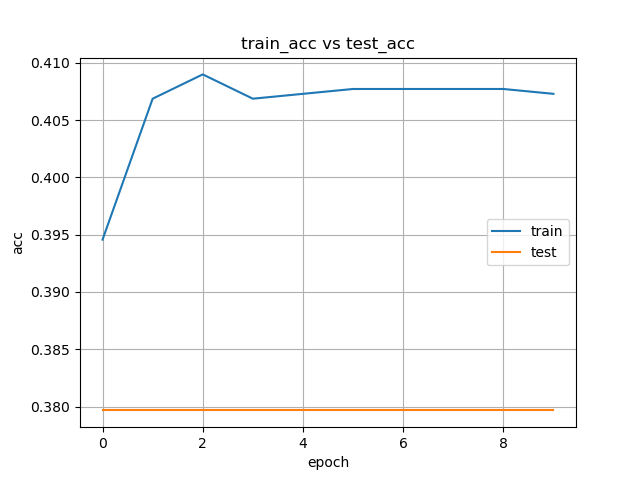
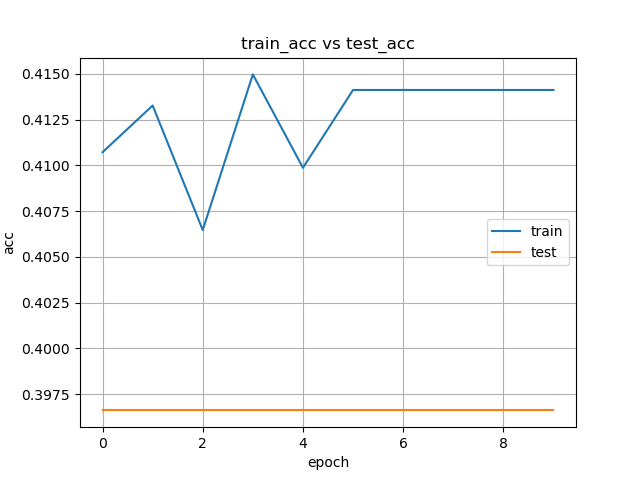
ss

diff --git a/main.py b/main.py
@@ -291,194 +291,3 @@ visualize(hist, number_epoch)
 model.save('model-{}.hdf5'.format(scenario))
 
 """## Test on sample video"""
-"""## Model architecture"""
-
-"""### 3D-CNN"""
-
-# 3D Convolutional Neural Network
-
-def c3d_model():
-    """
-    Build a 3D convolutional network, aka C3D.
-        https://arxiv.org/pdf/1412.0767.pdf
-    With thanks:
-        https://gist.github.com/albertomontesg/d8b21a179c1e6cca0480ebdf292c34d2
-    """
-    input_shape = (frame_sequences, frame_height, frame_widht, channel)
-
-    print("Input shape", input_shape)
-
-    model = Sequential()
-
-    # 1st layer group
-    model.add(Convolution3D(filters=64, kernel_size=(3, 3, 3), input_shape=input_shape, padding='same', strides=(1, 1, 1),
-                            activation='relu'))
-    model.add(MaxPooling3D(pool_size=(1, 2, 2), strides=(1, 2, 2)))
-
-    # 2nd layer group
-    model.add(Convolution3D(filters=128, kernel_size=(3, 3, 3), padding='same', strides=(1, 1, 1), activation='relu'))
-    model.add(MaxPooling3D(pool_size=(2, 2, 2), strides=(2, 2, 2)))
-
-    # 3rd layer group
-    model.add(Convolution3D(filters=256, kernel_size=(3, 3, 3), padding='same', strides=(1, 1, 1), activation='relu'))
-    model.add(Convolution3D(filters=256, kernel_size=(3, 3, 3), padding='same', strides=(1, 1, 1), activation='relu'))
-    model.add(MaxPooling3D(pool_size=(2, 2, 2), strides=(2, 2, 2)))
-
-    # 4th layer group
-    model.add(Convolution3D(filters=512, kernel_size=(3, 3, 3), padding='same', strides=(1, 1, 1), activation='relu'))
-    model.add(Convolution3D(filters=512, kernel_size=(3, 3, 3), padding='same', strides=(1, 1, 1), activation='relu'))
-    model.add(MaxPooling3D(pool_size=(2, 2, 2), strides=(2, 2, 2)))
-
-    # 5th layer group
-    model.add(Convolution3D(filters=512, kernel_size=(3, 3, 3), padding='same', strides=(1, 1, 1), activation='relu'))
-    model.add(Convolution3D(filters=512, kernel_size=(3, 3, 3), padding='same', strides=(1, 1, 1), activation='relu'))
-    model.add(ZeroPadding3D(padding=(0, 1, 1)))
-    model.add(MaxPooling3D(pool_size=(2, 2, 2), strides=(2, 2, 2)))
-    model.add(Flatten())
-
-    # FC layers group
-    model.add(Dense(units=4096, activation='relu'))
-    model.add(Dropout(rate=0.5))
-    model.add(Dense(units=4096, activation='relu'))
-    model.add(Dropout(rate=0.5))
-    model.add(Dense(units=len(actions), activation='softmax'))
-
-    return model
-
-"""### C-RNN"""
-
-# Convolutional - Recurrent Neural Network
-
-
-def crnn_model():
-    """Build a CNN into RNN.
-    Starting version from:
-        https://github.com/udacity/self-driving-car/blob/master/
-            steering-models/community-models/chauffeur/models.py
-    Heavily influenced by VGG-16:
-        https://arxiv.org/abs/1409.1556
-    Also known as an LRCN:
-        https://arxiv.org/pdf/1411.4389.pdf
-    """
-
-    def add_default_block(model, kernel_filters, init, reg_lambda):
-        # conv
-        model.add(TimeDistributed(Conv2D(kernel_filters, (3, 3), padding='same',
-                                         kernel_initializer=init, kernel_regularizer=regularizers.l2(reg_lambda))))
-        model.add(TimeDistributed(BatchNormalization()))
-        model.add(TimeDistributed(Activation('relu')))
-        # conv
-        model.add(TimeDistributed(Conv2D(kernel_filters, (3, 3), padding='same',
-                                         kernel_initializer=init, kernel_regularizer=regularizers.l2(reg_lambda))))
-        model.add(TimeDistributed(BatchNormalization()))
-        model.add(TimeDistributed(Activation('relu')))
-        # max pool
-        model.add(TimeDistributed(MaxPooling2D((2, 2), strides=(2, 2))))
-
-        return model
-
-    initialiser = 'glorot_uniform'
-    reg_lambda = 0.001
-
-    input_shape = (frame_sequences, frame_height, frame_widht, channel)
-    print("Input shape", input_shape)
-
-    model = Sequential()
-
-    # first (non-default) block
-    model.add(TimeDistributed(Conv2D(32, (7, 7), strides=(2, 2), padding='same',
-                                     kernel_initializer=initialiser, kernel_regularizer=regularizers.l2(reg_lambda)),
-                              input_shape=input_shape))
-    model.add(TimeDistributed(BatchNormalization()))
-    model.add(TimeDistributed(Activation('relu')))
-    model.add(
-        TimeDistributed(Conv2D(32, (3, 3), kernel_initializer=initialiser, kernel_regularizer=regularizers.l2(reg_lambda))))
-    model.add(TimeDistributed(BatchNormalization()))
-    model.add(TimeDistributed(Activation('relu')))
-    model.add(TimeDistributed(MaxPooling2D((2, 2), strides=(2, 2))))
-
-    # 2nd-5th (default) blocks
-    model = add_default_block(model, 64, init=initialiser, reg_lambda=reg_lambda)
-    model = add_default_block(model, 128, init=initialiser, reg_lambda=reg_lambda)
-    model = add_default_block(model, 256, init=initialiser, reg_lambda=reg_lambda)
-    model = add_default_block(model, 512, init=initialiser, reg_lambda=reg_lambda)
-
-    # LSTM output head
-    model.add(TimeDistributed(Flatten()))
-    model.add(LSTM(256, return_sequences=False, dropout=0.5))
-    model.add(Dense(len(actions), activation='softmax'))
-
-    return model
-
-
-"""### Pose-RNN"""
-
-# Pose Features - Recurrent Neural Network
-
-def posernn_model(timesteps):
-    model = Sequential()
-    model.add(LSTM(256, input_shape=(frame_sequences-time_lag, timesteps)))
-    model.add(Dense(len(actions), activation='softmax'))
-    return model
-
-
-# fungsi induk dari create_plot, menentukan matrik apa saja yang akan di plot
-def visualize(hist, nb_epoch):
-    def create_plot(hist, xc, title):
-        a = hist.history[title]
-        b = hist.history['val_' + title]
-        plt.figure()
-        plt.plot(xc, a)
-        plt.plot(xc, b)
-        plt.xlabel('epoch')
-        plt.ylabel(title)
-        plt.title('train_' + title + ' vs test_' + title)
-        plt.grid(True)
-        plt.legend(['train', 'test'])
-        plt.savefig('graph-{}-{}.png'.format(scenario, title))
-
-    xc = range(nb_epoch)
-    create_plot(hist, xc, 'loss')
-    create_plot(hist, xc, 'acc')
-
-
-"""## Model training & validation"""
-print("Model training & validation")
-train_x, test_x, train_y, test_y = train_test_split(dataset, labels, test_size=test_size, random_state=random_state)
-print("train_x, test_x, train_y, test_y", np.shape(train_x), np.shape(test_x), np.shape(train_y), np.shape(test_y))
-
-if scenario == 1:
-    print("c3d_model")
-    model = c3d_model()
-elif scenario == 2:
-    print("crnn_model")
-    model = crnn_model()
-else:
-    print("posernn_model")
-    _, data_dim, timesteps = np.shape(dataset)
-    model = posernn_model(timesteps)
-
-
-print(model.summary())
-with open('summary-{}.txt'.format(scenario), 'w') as fh:
-    model.summary(print_fn=lambda x: fh.write(x + '\n'))
-print("Save plot_model")
-plot_model(model, to_file='plot_model-{}.png'.format(scenario), show_shapes=True, show_layer_names=True)
-
-model.compile(loss='categorical_crossentropy', optimizer='adam', metrics=['acc'])
-
-start = datetime.datetime.now()
-# melakukan proses training
-hist = model.fit(train_x, train_y, validation_data=(test_x, test_y), callbacks=[CSVLogger('log-{}.csv'.format(scenario), separator=';')], batch_size=batch_size, epochs=number_epoch, verbose=1)
-end = datetime.datetime.now()
-interval = end - start
-f = open('info-{}.txt'.format(scenario), 'w')
-info = '\nScenario : '.format(scenario)
-info += '\nProcess time: ' + str(interval)
-print(info)
-f.write(info)
-visualize(hist, number_epoch)
-# menyimpan model
-model.save('model-{}.hdf5'.format(scenario))
-
-"""## Test on sample video"""

diff --git a/parameters.py b/parameters.py
@@ -1,6 +1,6 @@
 """## Experiment scenario & parameter"""
 
-scenario = 3 # 1 (3D-CNN) / 2 (C-RNN) / 3 (Pose-RNN)
+scenario = 2 # 1 (3D-CNN) / 2 (C-RNN) / 3 (Pose-RNN)
 
 frame_sequences = 20
 actions = ['walking', 'handwaving', 'boxing']
